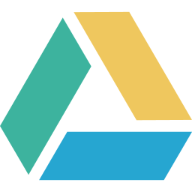
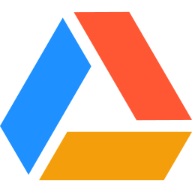
design update for mobile view

diff --git a/frontend/src/views/FilesView.vue b/frontend/src/views/FilesView.vue
@@ -243,8 +243,8 @@ function formatSize(bytes?: number) {
     @drop="handleDrop"
   >
     <!-- Breadcrumbs -->
-    <div class="flex items-center justify-between px-6 h-12 border-b border-gray-100">
-      <div class="flex items-center text-sm">
+    <div class="flex items-center justify-between px-3 md:px-6 h-12 border-b border-gray-100 gap-2">
+      <div class="flex items-center text-sm min-w-0 overflow-x-auto">
         <template v-if="filesStore.isSearching">
           <span class="text-gray-500">Search results for "</span>
           <span class="font-medium text-gray-900">{{ filesStore.searchQuery }}</span>
@@ -262,7 +262,7 @@ function formatSize(bytes?: number) {
           </button>
         </template>
       </div>
-      <div class="flex items-center gap-0.5 bg-gray-100 rounded-lg p-0.5">
+      <div class="flex items-center gap-0.5 bg-gray-100 rounded-lg p-0.5 shrink-0">
           <button
             @click="viewMode = 'list'"
             class="p-1.5 rounded-md transition-colors"
@@ -283,7 +283,7 @@ function formatSize(bytes?: number) {
     </div>
 
     <!-- New folder inline input -->
-    <div v-if="showNewFolder" class="flex items-center gap-2 px-6 py-2 bg-blue-50 border-b border-blue-100">
+    <div v-if="showNewFolder" class="flex flex-wrap items-center gap-2 px-3 md:px-6 py-2 bg-blue-50 border-b border-blue-100">
       <HugeiconsIcon :icon="Folder01Icon" :size="20" class="text-blue-500" />
       <input
         v-model="newFolderName"
@@ -306,11 +306,11 @@ function formatSize(bytes?: number) {
     <div v-else-if="viewMode === 'list'" class="flex-1 overflow-y-auto">
       <table class="w-full mt-2">
         <thead>
-          <tr class="text-xs text-gray-500 font-medium">
-            <th class="text-left pl-6 pr-4 py-2">Name</th>
-            <th class="text-left px-4 py-2 w-40">Last modified</th>
-            <th class="text-left px-4 py-2 w-28">File size</th>
-            <th class="w-20 pr-6"></th>
+          <tr class="text-xs text-gray-500">
+            <th class="text-left pl-3 md:pl-6 pr-4 py-2">Name</th>
+            <th class="text-left px-4 py-2 w-40 hidden md:table-cell">Last modified</th>
+            <th class="text-left px-4 py-2 w-28 hidden sm:table-cell">Size</th>
+            <th class="w-12 md:w-20 pr-2 md:pr-6"></th>
           </tr>
         </thead>
         <tbody>
@@ -320,14 +320,14 @@ function formatSize(bytes?: number) {
             class="hover:bg-[#f8fafd] cursor-pointer border-b border-gray-50"
             @click="filesStore.navigateUp()"
           >
-            <td class="pl-6 pr-4 py-2">
+            <td class="pl-3 md:pl-6 pr-4 py-2">
               <div class="flex items-center gap-3">
                 <HugeiconsIcon :icon="ArrowTurnBackwardIcon" :size="18" class="text-gray-400" />
                 <span class="text-sm text-gray-500">..</span>
               </div>
             </td>
-            <td></td>
-            <td></td>
+            <td class="hidden md:table-cell"></td>
+            <td class="hidden sm:table-cell"></td>
             <td></td>
           </tr>
 
@@ -339,19 +339,19 @@ function formatSize(bytes?: number) {
             @click="handleClick(item)"
             @contextmenu="handleContextMenu($event, item)"
           >
-            <td class="pl-6 pr-4 py-2">
+            <td class="pl-3 md:pl-6 pr-4 py-2">
               <div class="flex items-center gap-3">
                 <HugeiconsIcon
                   v-if="item.isDirectory"
                   :icon="Folder01Icon"
                   :size="20"
-                  class="text-gray-500"
+                  class="text-gray-500 shrink-0"
                 />
                 <HugeiconsIcon
                   v-else
                   :icon="getFileIcon(item.name)"
                   :size="20"
-                  :class="getFileIconColor(item.name)"
+                  :class="[getFileIconColor(item.name), 'shrink-0']"
                 />
                 <input
                   v-if="renameTarget?.path === item.path"
@@ -362,13 +362,13 @@ function formatSize(bytes?: number) {
                   @keyup.escape="renameTarget = null"
                   @blur="handleRename"
                 />
-                <span v-else class="text-sm text-gray-800">{{ item.name }}</span>
+                <span v-else class="text-sm text-gray-800 break-all line-clamp-2" :title="item.name">{{ item.name }}</span>
               </div>
             </td>
-            <td class="px-4 py-2 text-xs text-gray-500">{{ formatDate(item.lastModified) }}</td>
-            <td class="px-4 py-2 text-xs text-gray-500">{{ item.isDirectory ? '\u2014' : formatSize(item.size) }}</td>
-            <td class="pr-6 py-2" @click.stop>
-              <div class="flex items-center gap-1 opacity-0 group-hover:opacity-100 transition-opacity">
+            <td class="px-4 py-2 text-xs text-gray-500 hidden md:table-cell">{{ formatDate(item.lastModified) }}</td>
+            <td class="px-4 py-2 text-xs text-gray-500 hidden sm:table-cell">{{ item.isDirectory ? '\u2014' : formatSize(item.size) }}</td>
+            <td class="pr-2 md:pr-6 py-2" @click.stop>
+              <div class="flex items-center gap-1 md:opacity-0 md:group-hover:opacity-100 transition-opacity">
                 <button
                   v-if="!item.isDirectory"
                   @click="filesStore.download(item.path)"
@@ -399,7 +399,7 @@ function formatSize(bytes?: number) {
     </div>
 
     <!-- Grid view -->
-    <div v-else class="flex-1 overflow-y-auto p-6">
+    <div v-else class="flex-1 overflow-y-auto p-3 md:p-6">
       <!-- Go up -->
       <div
         v-if="filesStore.currentPath"
@@ -410,7 +410,7 @@ function formatSize(bytes?: number) {
         ..
       </div>
 
-      <div class="grid grid-cols-[repeat(auto-fill,minmax(140px,1fr))] gap-3">
+      <div class="grid grid-cols-[repeat(auto-fill,minmax(110px,1fr))] md:grid-cols-[repeat(auto-fill,minmax(140px,1fr))] gap-2 md:gap-3">
         <div
           v-for="item in filesStore.files"
           :key="item.path"
@@ -465,7 +465,7 @@ function formatSize(bytes?: number) {
             @keyup.escape="renameTarget = null"
             @blur="handleRename"
           />
-          <span v-else class="text-xs text-gray-700 text-center w-full truncate" :title="item.name">{{ item.name }}</span>
+          <span v-else class="text-xs text-gray-700 text-center w-full break-all line-clamp-2" :title="item.name">{{ item.name }}</span>
         </div>
       </div>
 
@@ -500,7 +500,7 @@ function formatSize(bytes?: number) {
     >
       <div
         v-if="filesStore.uploads.length"
-        class="fixed bottom-4 right-4 z-50 w-80 bg-white rounded-xl shadow-lg border border-gray-200 overflow-hidden"
+        class="fixed bottom-4 left-4 right-4 md:left-auto md:right-4 z-50 md:w-80 bg-white rounded-xl shadow-lg border border-gray-200 overflow-hidden"
       >
         <div class="px-4 py-2.5 bg-gray-50 border-b border-gray-100 text-sm font-medium text-gray-700">
           Uploading {{ filesStore.uploads.length }} file{{ filesStore.uploads.length > 1 ? 's' : '' }}

diff --git a/frontend/src/layouts/MainLayout.vue b/frontend/src/layouts/MainLayout.vue
@@ -1,19 +1,19 @@
 <script setup lang="ts">
-import { onMounted, computed, ref } from 'vue'
+import { onMounted, computed, ref, watch } from 'vue'
 import { useRouter, useRoute, RouterView } from 'vue-router'
 import { useDrivesStore } from '../stores/drives'
 import { useFilesStore } from '../stores/files'
 import SidebarDriveList from '../components/SidebarDriveList.vue'
 import { HugeiconsIcon } from '@hugeicons/vue'
-import { Search01Icon, Logout02Icon, Cancel01Icon } from '@hugeicons/core-free-icons'
+import { Search01Icon, PowerIcon, Cancel01Icon, Menu01Icon } from '@hugeicons/core-free-icons'
 import { useAuthStore } from '../stores/auth'
-import appLogo from '../assets/local.svg'
+import appLogo from '../assets/logo.svg'
 
 const router = useRouter()
 const route = useRoute()
 const authStore = useAuthStore()
 const filesStore = useFilesStore()
-
+const sidebarOpen = ref(false)
 
 const searchInput = ref('')
 let searchDebounce: ReturnType<typeof setTimeout> | null = null
@@ -53,23 +53,37 @@ onMounted(() => {
 const activeDriveId = computed(() => (route.params.driveId as string) || '')
 
 function handleDriveSelect(id: string) {
+  sidebarOpen.value = false
   router.push(`/files/${id}`)
 }
+
+// Close sidebar on route change
+watch(() => route.path, () => {
+  sidebarOpen.value = false
+})
 </script>
 
 <template>
   <div class="h-screen flex flex-col bg-[#f0f4f9] font-sans">
     <!-- Top bar -->
-    <header class="flex items-center px-5 h-16 shrink-0">
-      <div class="flex items-center gap-2.5 w-57.5">
-        <img :src="appLogo" class="w-10 h-10 mr-2" alt="My Drive" />
-        <span class="text-[26px] text-gray-700 font-medium tracking-tight font-['New_Amsterdam']">MY FLYDRIVE</span>
+    <header class="flex items-center px-2 h-14 md:h-16 shrink-0">
+      <!-- Mobile hamburger -->
+      <button
+        @click="sidebarOpen = !sidebarOpen"
+        class="md:hidden w-10 h-10 rounded-full flex items-center justify-center hover:bg-black/5 transition-colors"
+      >
+        <HugeiconsIcon :icon="Menu01Icon" class="text-gray-600" :size="22" />
+      </button>
+
+      <div class="flex items-center gap-2.5 md:w-60 shrink-0 mr-2 md:mr-0">
+        <img :src="appLogo" class="w-8 h-8 md:w-10 md:h-10 md:mx-2" alt="My FlyDrive" />
+        <span class="hidden md:inline text-[26px] text-gray-700 font-medium tracking-tight font-['New_Amsterdam']">MY FLYDRIVE</span>
       </div>
 
       <!-- Search bar -->
       <div class="flex-1 max-w-180">
-        <div class="flex items-center bg-white rounded-2xl px-5 h-12 transition-all focus-within:bg-white">
-          <HugeiconsIcon :icon="Search01Icon" class="text-gray-500 mr-3" :size="20" />
+        <div class="flex items-center bg-white rounded-2xl px-3 md:px-5 h-10 md:h-12 transition-all focus-within:bg-white">
+          <HugeiconsIcon :icon="Search01Icon" class="text-gray-500 mr-2 md:mr-3 shrink-0" :size="20" />
           <input
             type="text"
             :value="searchInput"
@@ -88,16 +102,16 @@ function handleDriveSelect(id: string) {
         </div>
       </div>
 
-      <div class="flex items-center gap-2 ml-auto">
+      <div class="flex items-center gap-1 md:gap-2 ml-auto shrink-0">
         <button
           @click="handleLogout"
           class="w-9 h-9 rounded-full flex items-center justify-center hover:bg-black/5 transition-colors"
           title="Sign out"
         >
-          <HugeiconsIcon :icon="Logout02Icon" class="text-gray-600" :size="20" />
+          <HugeiconsIcon :icon="PowerIcon" class="text-gray-600" :size="20" />
         </button>
         <div
-          class="w-9 h-9 rounded-full bg-blue-600 flex items-center justify-center text-white text-sm font-medium"
+          class="w-8 h-8 md:w-9 md:h-9 rounded-full bg-blue-600 flex items-center justify-center text-white text-xs md:text-sm font-medium"
           :title="authStore.userEmail"
         >
           {{ authStore.userInitial }}
@@ -107,8 +121,27 @@ function handleDriveSelect(id: string) {
 
     <!-- Body -->
     <div class="flex flex-1 overflow-hidden px-2 pb-2">
+      <!-- Mobile sidebar overlay -->
+      <Transition
+        enter-active-class="transition-opacity duration-200"
+        enter-from-class="opacity-0"
+        enter-to-class="opacity-100"
+        leave-active-class="transition-opacity duration-200"
+        leave-from-class="opacity-100"
+        leave-to-class="opacity-0"
+      >
+        <div
+          v-if="sidebarOpen"
+          class="fixed inset-0 bg-black/30 z-40 md:hidden"
+          @click="sidebarOpen = false"
+        />
+      </Transition>
+
       <!-- Sidebar -->
-      <aside class="w-60 shrink-0 flex flex-col pt-2 pr-3 overflow-y-auto">
+      <aside
+        class="fixed inset-y-0 left-0 z-50 w-64 bg-[#f0f4f9] flex flex-col pt-16 px-2 overflow-y-auto transition-transform duration-200 md:static md:w-60 md:pt-2 md:px-0 md:pr-3 md:translate-x-0 md:z-auto"
+        :class="sidebarOpen ? 'translate-x-0' : '-translate-x-full'"
+      >
         <SidebarDriveList
           :drives="drivesStore.drives"
           :activeDriveId="activeDriveId"
@@ -117,7 +150,7 @@ function handleDriveSelect(id: string) {
       </aside>
 
       <!-- Main content -->
-      <main class="flex-1 bg-white rounded-2xl overflow-y-auto">
+      <main class="flex-1 bg-white rounded-2xl overflow-y-auto min-w-0">
         <RouterView />
       </main>
     </div>

diff --git a/frontend/src/views/DrivesView.vue b/frontend/src/views/DrivesView.vue
@@ -65,10 +65,10 @@ function getDriveIconBg(type: string) {
 </script>
 
 <template>
-  <div class="p-8 max-w-4xl">
-    <div class="flex items-center justify-between mb-8">
+  <div class="p-4 md:p-8 max-w-4xl">
+    <div class="flex items-center justify-between mb-6 md:mb-8">
       <div>
-        <h1 class="text-2xl font-semibold text-gray-900">Drive Configuration</h1>
+        <h1 class="text-xl md:text-2xl font-semibold text-gray-900">Drive Configuration</h1>
         <p class="text-sm text-gray-500 mt-1">Manage your storage providers</p>
       </div>
       <button
@@ -113,7 +113,7 @@ function getDriveIconBg(type: string) {
           </span>
         </div>
 
-        <div class="flex items-center gap-1 opacity-0 group-hover:opacity-100 transition-opacity">
+        <div class="flex items-center gap-1 md:opacity-0 md:group-hover:opacity-100 transition-opacity">
           <router-link
             :to="`/files/${drive.id}`"
             class="p-2 text-blue-600 hover:bg-blue-50 rounded-lg transition-colors"

diff --git a/frontend/src/components/FilePreview.vue b/frontend/src/components/FilePreview.vue
@@ -100,7 +100,7 @@ onUnmounted(() => document.removeEventListener('keydown', handleKeydown))
 
 <template>
   <div class="fixed inset-0 bg-black/60 backdrop-blur-sm flex items-center justify-center z-50" @click.self="emit('close')">
-    <div class="bg-white rounded-2xl shadow-2xl w-[90vw] max-w-5xl h-[85vh] flex flex-col overflow-hidden">
+    <div class="bg-white rounded-2xl shadow-2xl w-[95vw] md:w-[90vw] max-w-5xl h-[90vh] md:h-[85vh] flex flex-col overflow-hidden">
       <!-- Header -->
       <div class="flex items-center justify-between px-5 py-3 border-b border-gray-100 shrink-0">
         <h3 class="text-sm font-medium text-gray-900 truncate">{{ fileName }}</h3>
